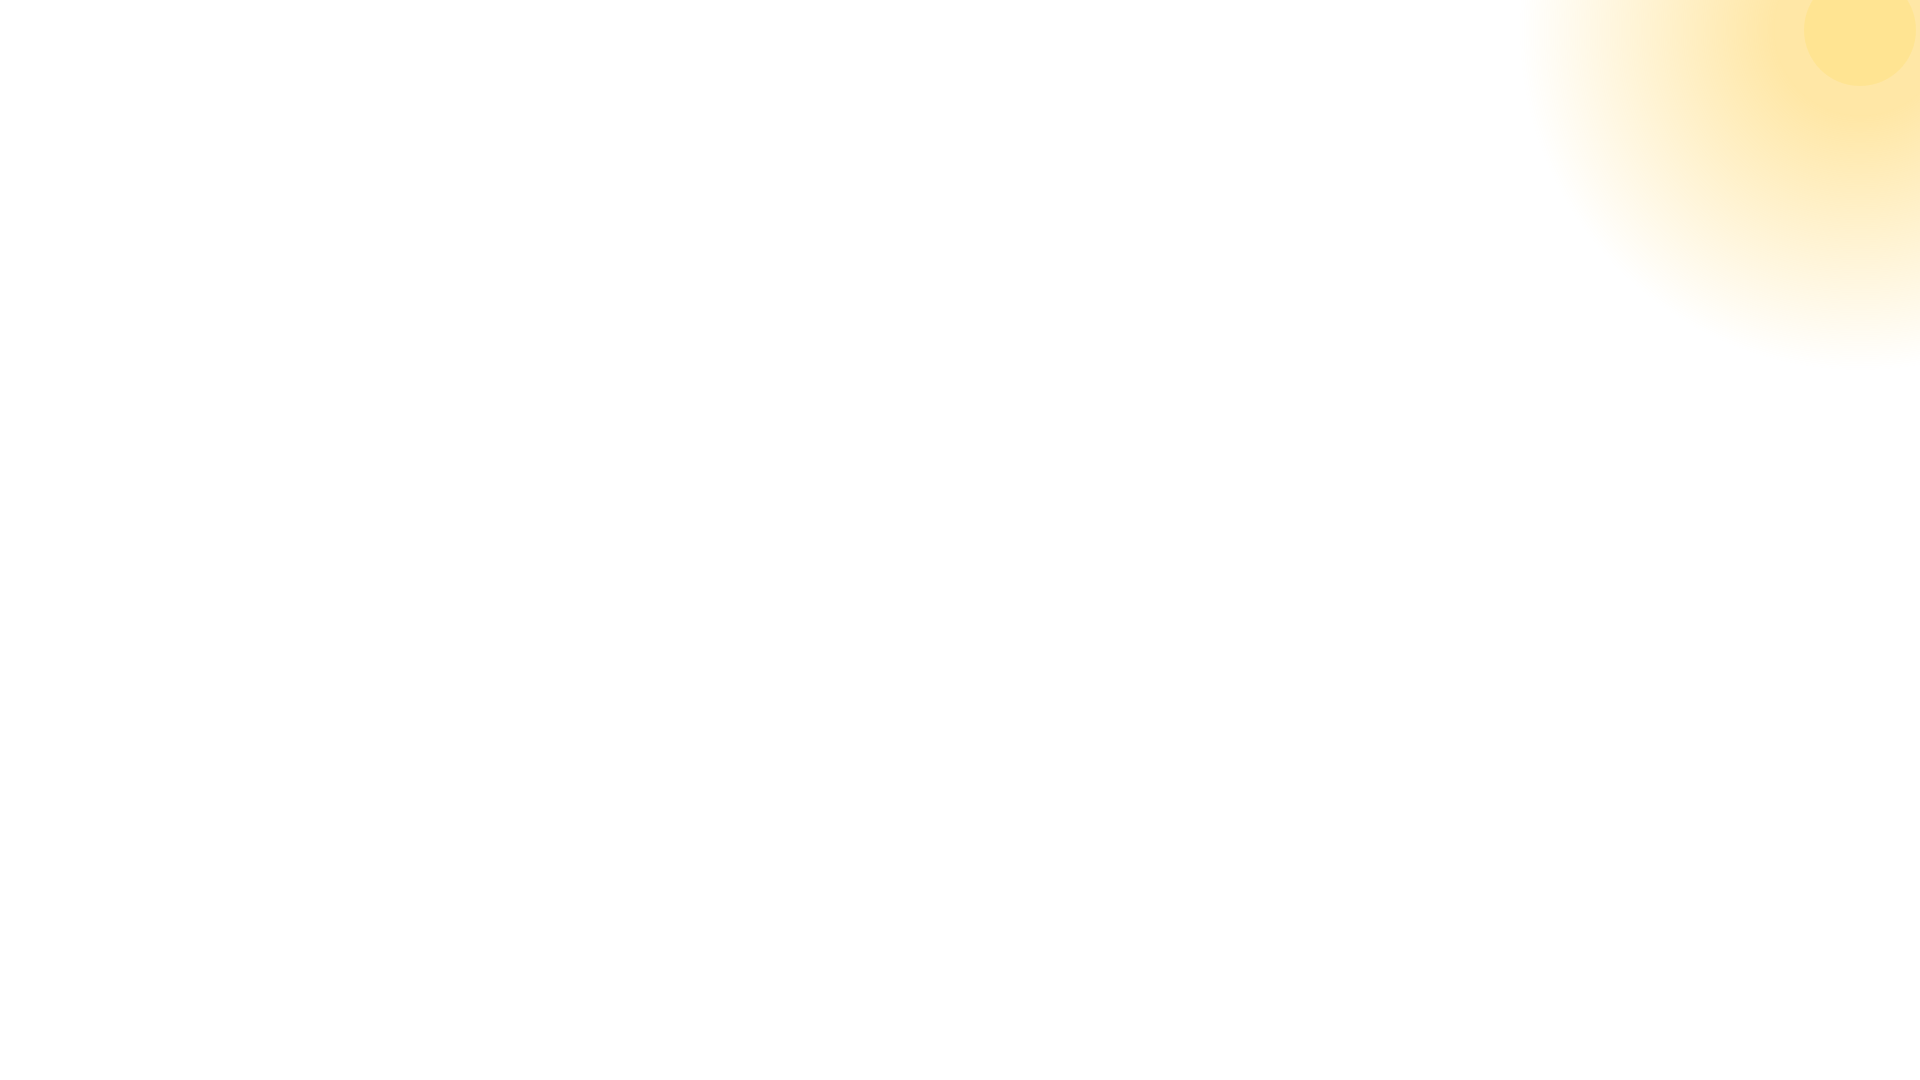
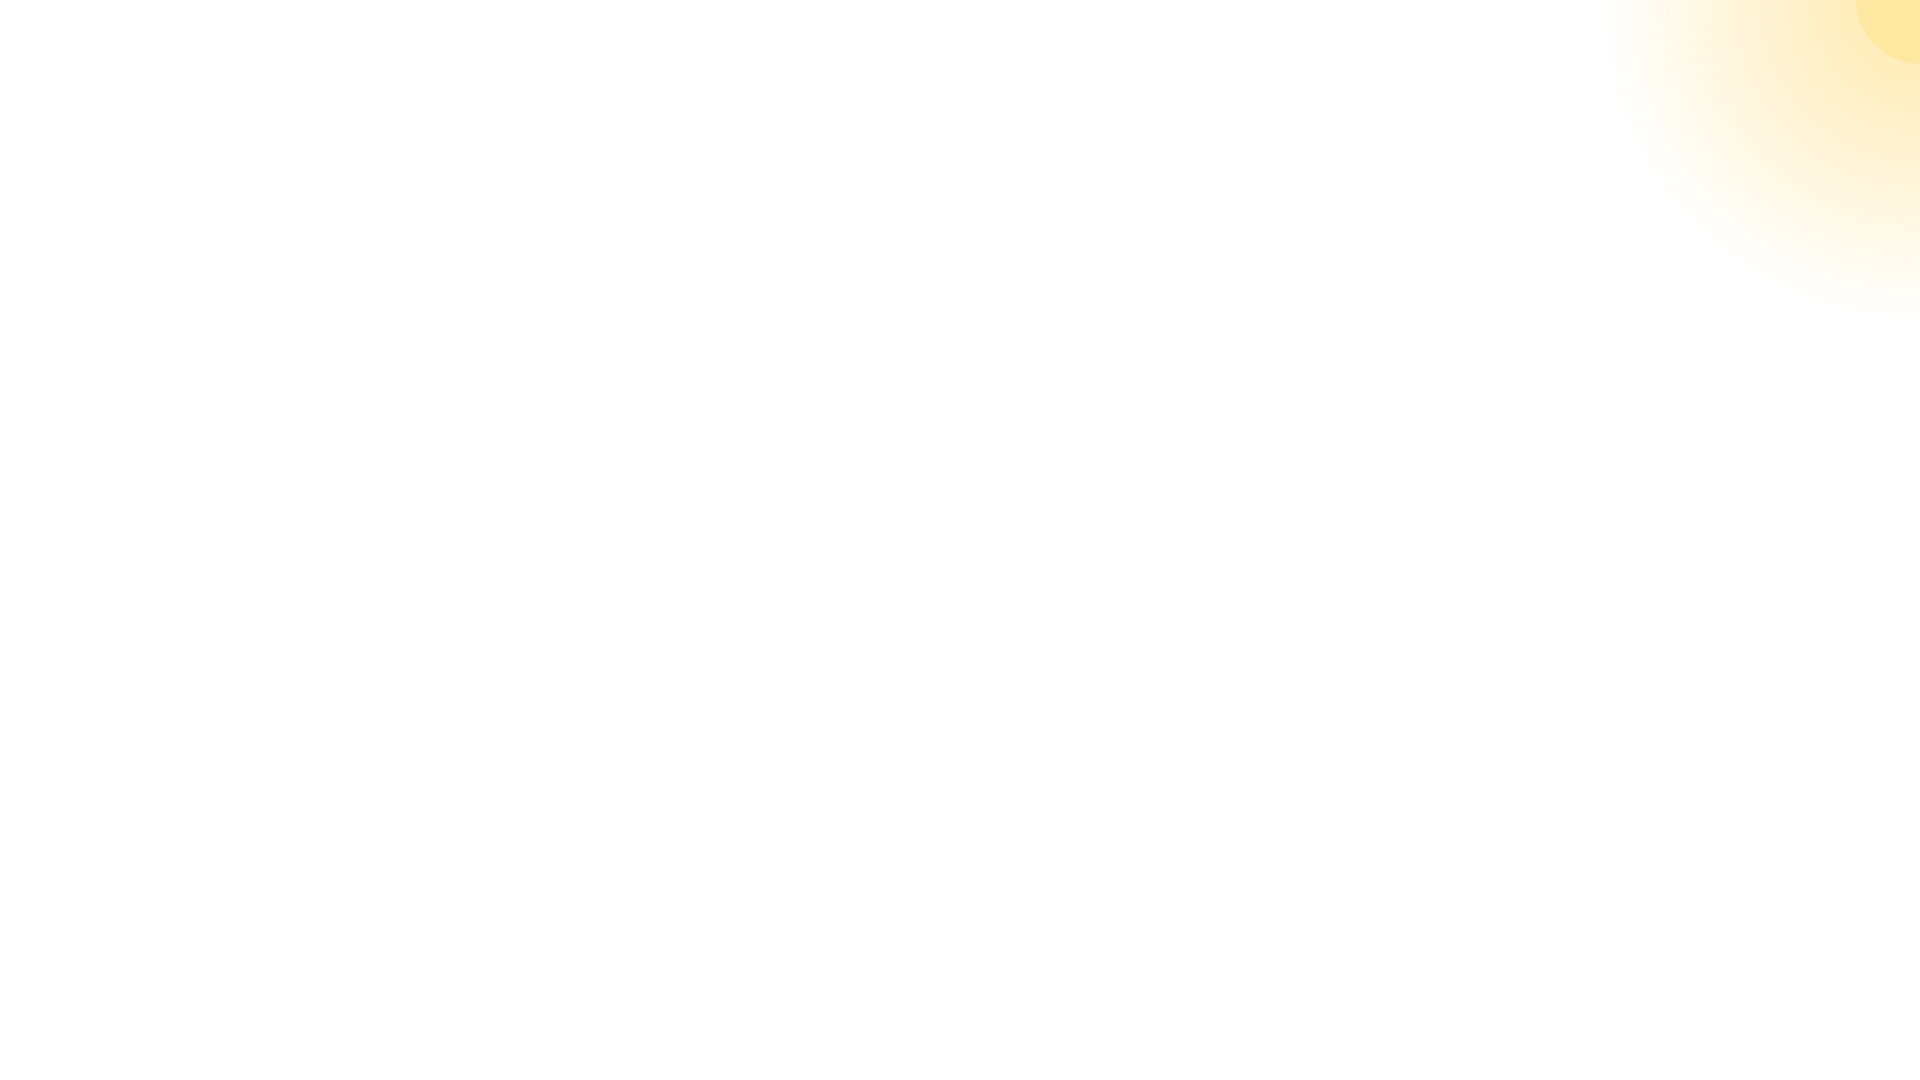
theme-pack: Summer: the sun moved out to the corner, no clouds, starfish on tiles

Changed region(s): [[0.8125, 0.0, 1.0, 0.275]]

diff --git a/tools/theme-pack/packs/themes/summer.js b/tools/theme-pack/packs/themes/summer.js
@@ -1,23 +1,23 @@
 (function () {
-  // Beach day: a warm sun and a few clouds behind everything, a wave line and sand under the inputs, shells on panels, a sun on every slider, a sunny glow at focus.
-  var SKY = '<svg style="position:absolute;left:0px;top:0px" width="1920" height="1080" viewBox="0 0 1920 1080" aria-hidden="true"><defs><radialGradient id="tp-su-a" cx="0.5" cy="0.5" r="0.5"><stop offset="0.25" stop-color="#FFD35C" stop-opacity="0.55"></stop><stop offset="1" stop-color="#FFD35C" stop-opacity="0"></stop></radialGradient></defs><circle cx="1860" cy="30" r="340" fill="url(#tp-su-a)"></circle><circle cx="1860" cy="30" r="56" fill="#FFE38A" opacity="0.7"></circle></svg><svg style="position:absolute;left:220px;top:160px;opacity:0.22" width="150" height="63" viewBox="0 0 100 42" aria-hidden="true"><path d="M10 38a14 14 0 0 1 8-26 20 20 0 0 1 38-4 16 16 0 0 1 30 14 12 12 0 0 1-4 16z" fill="#FFFFFF"></path></svg><svg style="position:absolute;left:820px;top:90px;opacity:0.22" width="110" height="46" viewBox="0 0 100 42" aria-hidden="true"><path d="M10 38a14 14 0 0 1 8-26 20 20 0 0 1 38-4 16 16 0 0 1 30 14 12 12 0 0 1-4 16z" fill="#FFFFFF"></path></svg><svg style="position:absolute;left:1300px;top:230px;opacity:0.22" width="130" height="55" viewBox="0 0 100 42" aria-hidden="true"><path d="M10 38a14 14 0 0 1 8-26 20 20 0 0 1 38-4 16 16 0 0 1 30 14 12 12 0 0 1-4 16z" fill="#FFFFFF"></path></svg>';
+  // Beach day: a warm sun rising out of the top-right corner, a wave line and sand under the inputs, shells on panels, starfish on tiles, a sun on every slider, a sunny glow at focus.
+  var SKY = '<svg style="position:absolute;left:0px;top:0px" width="1920" height="1080" viewBox="0 0 1920 1080" aria-hidden="true"><defs><radialGradient id="tp-su-a" cx="0.5" cy="0.5" r="0.5"><stop offset="0.25" stop-color="#FFD35C" stop-opacity="0.4"></stop><stop offset="1" stop-color="#FFD35C" stop-opacity="0"></stop></radialGradient></defs><circle cx="1920" cy="0" r="320" fill="url(#tp-su-a)"></circle><circle cx="1920" cy="0" r="64" fill="#FFE38A" opacity="0.55"></circle></svg>';
   var BOTTOM = '<svg width="1920" height="54" viewBox="0 0 1920 54" aria-hidden="true"><g transform="translate(0 -16)"><path d="M0 54V34C160 22 320 44 480 34S800 22 960 34 1280 44 1440 34 1760 24 1920 34V54Z" fill="#37B6D6" opacity="0.75"></path><path d="M0 54V44C200 36 420 50 640 44S1080 38 1300 46S1700 40 1920 44V54Z" fill="#F0D9A0"></path><path d="M0 34C160 22 320 44 480 34S800 22 960 34 1280 44 1440 34 1760 24 1920 34" stroke="#EAF9FF" stroke-width="3" fill="none" opacity="0.9"></path><g transform="translate(300 36) scale(0.6)"><path d="M12 21C5 19 2 13 3 9c3-5 15-5 18 0 1 4-2 10-9 12z" fill="#F7A6A0"></path><path d="M12 21V8M12 21L6 9M12 21l6-12M12 21L4 13M12 21l8-8" stroke="rgba(120,60,30,0.45)" stroke-width="1.2" fill="none"></path></g><g transform="translate(820 36) scale(0.6)"><path d="M12 21C5 19 2 13 3 9c3-5 15-5 18 0 1 4-2 10-9 12z" fill="#F5C26B"></path><path d="M12 21V8M12 21L6 9M12 21l6-12M12 21L4 13M12 21l8-8" stroke="rgba(120,60,30,0.45)" stroke-width="1.2" fill="none"></path></g><g transform="translate(1380 36) scale(0.6)"><path d="M12 21C5 19 2 13 3 9c3-5 15-5 18 0 1 4-2 10-9 12z" fill="#C9B6FF"></path><path d="M12 21V8M12 21L6 9M12 21l6-12M12 21L4 13M12 21l8-8" stroke="rgba(120,60,30,0.45)" stroke-width="1.2" fill="none"></path></g><g transform="translate(1760 36) scale(0.6)"><path d="M12 21C5 19 2 13 3 9c3-5 15-5 18 0 1 4-2 10-9 12z" fill="#F7A6A0"></path><path d="M12 21V8M12 21L6 9M12 21l6-12M12 21L4 13M12 21l8-8" stroke="rgba(120,60,30,0.45)" stroke-width="1.2" fill="none"></path></g></g></svg>';
   var ACCENT = '<svg width="100%" height="100%" viewBox="0 0 24 24" aria-hidden="true"><path d="M12 21C5 19 2 13 3 9c3-5 15-5 18 0 1 4-2 10-9 12z" fill="#F7A6A0"></path><path d="M12 21V8M12 21L6 9M12 21l6-12M12 21L4 13M12 21l8-8" stroke="rgba(120,60,30,0.45)" stroke-width="1.2" fill="none"></path></svg>';
-  var TILE = '<svg width="100%" height="100%" viewBox="0 0 24 24" aria-hidden="true"><path d="M15.5 12.0L23.0 12.0" stroke="#FFB82E" stroke-width="1.6" stroke-linecap="round"></path><circle cx="23.0" cy="12.0" r="0" fill="#FFB82E"></circle><path d="M14.8 14.1L20.9 18.5" stroke="#FFB82E" stroke-width="1.6" stroke-linecap="round"></path><circle cx="20.9" cy="18.5" r="0" fill="#FFB82E"></circle><path d="M13.1 15.3L15.4 22.5" stroke="#FFB82E" stroke-width="1.6" stroke-linecap="round"></path><circle cx="15.4" cy="22.5" r="0" fill="#FFB82E"></circle><path d="M10.9 15.3L8.6 22.5" stroke="#FFB82E" stroke-width="1.6" stroke-linecap="round"></path><circle cx="8.6" cy="22.5" r="0" fill="#FFB82E"></circle><path d="M9.2 14.1L3.1 18.5" stroke="#FFB82E" stroke-width="1.6" stroke-linecap="round"></path><circle cx="3.1" cy="18.5" r="0" fill="#FFB82E"></circle><path d="M8.5 12.0L1.0 12.0" stroke="#FFB82E" stroke-width="1.6" stroke-linecap="round"></path><circle cx="1.0" cy="12.0" r="0" fill="#FFB82E"></circle><path d="M9.2 9.9L3.1 5.5" stroke="#FFB82E" stroke-width="1.6" stroke-linecap="round"></path><circle cx="3.1" cy="5.5" r="0" fill="#FFB82E"></circle><path d="M10.9 8.7L8.6 1.5" stroke="#FFB82E" stroke-width="1.6" stroke-linecap="round"></path><circle cx="8.6" cy="1.5" r="0" fill="#FFB82E"></circle><path d="M13.1 8.7L15.4 1.5" stroke="#FFB82E" stroke-width="1.6" stroke-linecap="round"></path><circle cx="15.4" cy="1.5" r="0" fill="#FFB82E"></circle><path d="M14.8 9.9L20.9 5.5" stroke="#FFB82E" stroke-width="1.6" stroke-linecap="round"></path><circle cx="20.9" cy="5.5" r="0" fill="#FFB82E"></circle><circle cx="12" cy="12" r="6" fill="#FFB82E"></circle></svg>';
+  var TILE = '<svg width="100%" height="100%" viewBox="0 0 24 24" aria-hidden="true"><path d="M12 1.500l2.800 6.700 7.200.6-5.500 4.700 1.700 7-6.200-3.800-6.200 3.800 1.700-7L2 8.800l7.200-.6z" fill="#F5A66B" stroke="#C25A2A" stroke-width="1" stroke-linejoin="round"></path><circle cx="12" cy="11" r="1" fill="#C25A2A"></circle><circle cx="9" cy="9" r="0.7" fill="#C25A2A"></circle><circle cx="15" cy="9" r="0.7" fill="#C25A2A"></circle></svg>';
   var CHIP = '<svg width="100%" height="100%" viewBox="0 0 24 24" aria-hidden="true"><path d="M12 21C5 19 2 13 3 9c3-5 15-5 18 0 1 4-2 10-9 12z" fill="#F5C26B"></path><path d="M12 21V8M12 21L6 9M12 21l6-12M12 21L4 13M12 21l8-8" stroke="rgba(120,60,30,0.45)" stroke-width="1.2" fill="none"></path></svg>';
   var THUMB = '<svg width="100%" height="100%" viewBox="0 0 24 24" aria-hidden="true"><path d="M15.5 12.0L23.0 12.0" stroke="#FFB82E" stroke-width="1.6" stroke-linecap="round"></path><circle cx="23.0" cy="12.0" r="0" fill="#FFB82E"></circle><path d="M14.8 14.1L20.9 18.5" stroke="#FFB82E" stroke-width="1.6" stroke-linecap="round"></path><circle cx="20.9" cy="18.5" r="0" fill="#FFB82E"></circle><path d="M13.1 15.3L15.4 22.5" stroke="#FFB82E" stroke-width="1.6" stroke-linecap="round"></path><circle cx="15.4" cy="22.5" r="0" fill="#FFB82E"></circle><path d="M10.9 15.3L8.6 22.5" stroke="#FFB82E" stroke-width="1.6" stroke-linecap="round"></path><circle cx="8.6" cy="22.5" r="0" fill="#FFB82E"></circle><path d="M9.2 14.1L3.1 18.5" stroke="#FFB82E" stroke-width="1.6" stroke-linecap="round"></path><circle cx="3.1" cy="18.5" r="0" fill="#FFB82E"></circle><path d="M8.5 12.0L1.0 12.0" stroke="#FFB82E" stroke-width="1.6" stroke-linecap="round"></path><circle cx="1.0" cy="12.0" r="0" fill="#FFB82E"></circle><path d="M9.2 9.9L3.1 5.5" stroke="#FFB82E" stroke-width="1.6" stroke-linecap="round"></path><circle cx="3.1" cy="5.5" r="0" fill="#FFB82E"></circle><path d="M10.9 8.7L8.6 1.5" stroke="#FFB82E" stroke-width="1.6" stroke-linecap="round"></path><circle cx="8.6" cy="1.5" r="0" fill="#FFB82E"></circle><path d="M13.1 8.7L15.4 1.5" stroke="#FFB82E" stroke-width="1.6" stroke-linecap="round"></path><circle cx="15.4" cy="1.5" r="0" fill="#FFB82E"></circle><path d="M14.8 9.9L20.9 5.5" stroke="#FFB82E" stroke-width="1.6" stroke-linecap="round"></path><circle cx="20.9" cy="5.5" r="0" fill="#FFB82E"></circle><circle cx="12" cy="12" r="6" fill="#FFB82E"></circle></svg>';
-  var KNOB = '<svg width="100%" height="100%" viewBox="0 0 40 40" aria-hidden="true"><circle cx="20" cy="20" r="18" fill="#FFF1CF"></circle><g transform="translate(8 8)"><path d="M12 21C5 19 2 13 3 9c3-5 15-5 18 0 1 4-2 10-9 12z" fill="#F28F6B"></path><path d="M12 21V8M12 21L6 9M12 21l6-12M12 21L4 13M12 21l8-8" stroke="rgba(120,60,30,0.45)" stroke-width="1.2" fill="none"></path></g></svg>';
+  var KNOB = '<svg width="100%" height="100%" viewBox="0 0 40 40" aria-hidden="true"><circle cx="20" cy="20" r="17" fill="#FFF1CF" stroke="rgba(30,20,40,0.5)" stroke-width="2"></circle><g transform="translate(8 8)"><path d="M12 21C5 19 2 13 3 9c3-5 15-5 18 0 1 4-2 10-9 12z" fill="#F28F6B"></path><path d="M12 21V8M12 21L6 9M12 21l6-12M12 21L4 13M12 21l8-8" stroke="rgba(120,60,30,0.45)" stroke-width="1.2" fill="none"></path></g></svg>';
   var GLOW = '#FFC233';
   var pack = {
     kind: 'theme', id: 'summer', name: 'Summer',
-    description: 'Season: a warm sun and clouds behind, waves and sand under the inputs, shells on panels, a sunny glow on focus, a sun on sliders and a shell on switches.',
+    description: 'Season: a warm sun in the top-right corner, waves and sand under the inputs, shells on panels, starfish on tiles, a sunny glow on focus, a sun on sliders and a shell on switches.',
     recipes: [
       { target: 'screen', slot: 'back', when: 'always', outset: 0, cost: 'static', html: SKY, asset: 'sky.png' },
       { target: 'panel', slot: 'front', when: 'always', outset: [30, 0, 0, -30], cost: 'static', style: 'right:auto;bottom:auto;width:44px;height:44px', html: ACCENT, asset: 'accent.png' },
       { target: 'toast', slot: 'front', when: 'always', outset: [30, 0, 0, -30], cost: 'static', style: 'right:auto;bottom:auto;width:44px;height:44px', html: ACCENT, asset: 'accent.png' },
       { target: 'dialog', slot: 'front', when: 'always', outset: [30, 0, 0, -30], cost: 'static', style: 'right:auto;bottom:auto;width:44px;height:44px', html: ACCENT, asset: 'accent.png' },
       { target: 'ribbon', slot: 'back', when: 'always', outset: [0, 96, 54, 96], cost: 'static', style: 'top:auto;height:54px', html: BOTTOM, asset: 'bottom.png' },
-      { target: 'tile', slot: 'front', when: 'always', outset: [18, 0, 0, 18], cost: 'static', style: 'right:auto;bottom:auto;width:36px;height:36px', html: TILE, asset: 'tile.png' },
+      { target: 'tile', slot: 'front', when: 'always', outset: [10, 0, 0, 10], cost: 'static', style: 'right:auto;bottom:auto;width:36px;height:36px', html: TILE, asset: 'tile.png' },
       { target: '*', slot: 'back', when: 'focused', outset: 26, cost: 'glow', fill: GLOW, radius: 56, blur: 16, opacity: 0.45 },
       { target: 'chip', slot: 'front', when: 'always', outset: [12, 0, 0, 12], cost: 'static', style: 'right:auto;bottom:auto;width:22px;height:22px', html: CHIP, asset: 'chip.png' },
       { target: 'thumb', slot: 'front', when: 'always', outset: 10, cost: 'static', html: THUMB, asset: 'thumb.png' },
